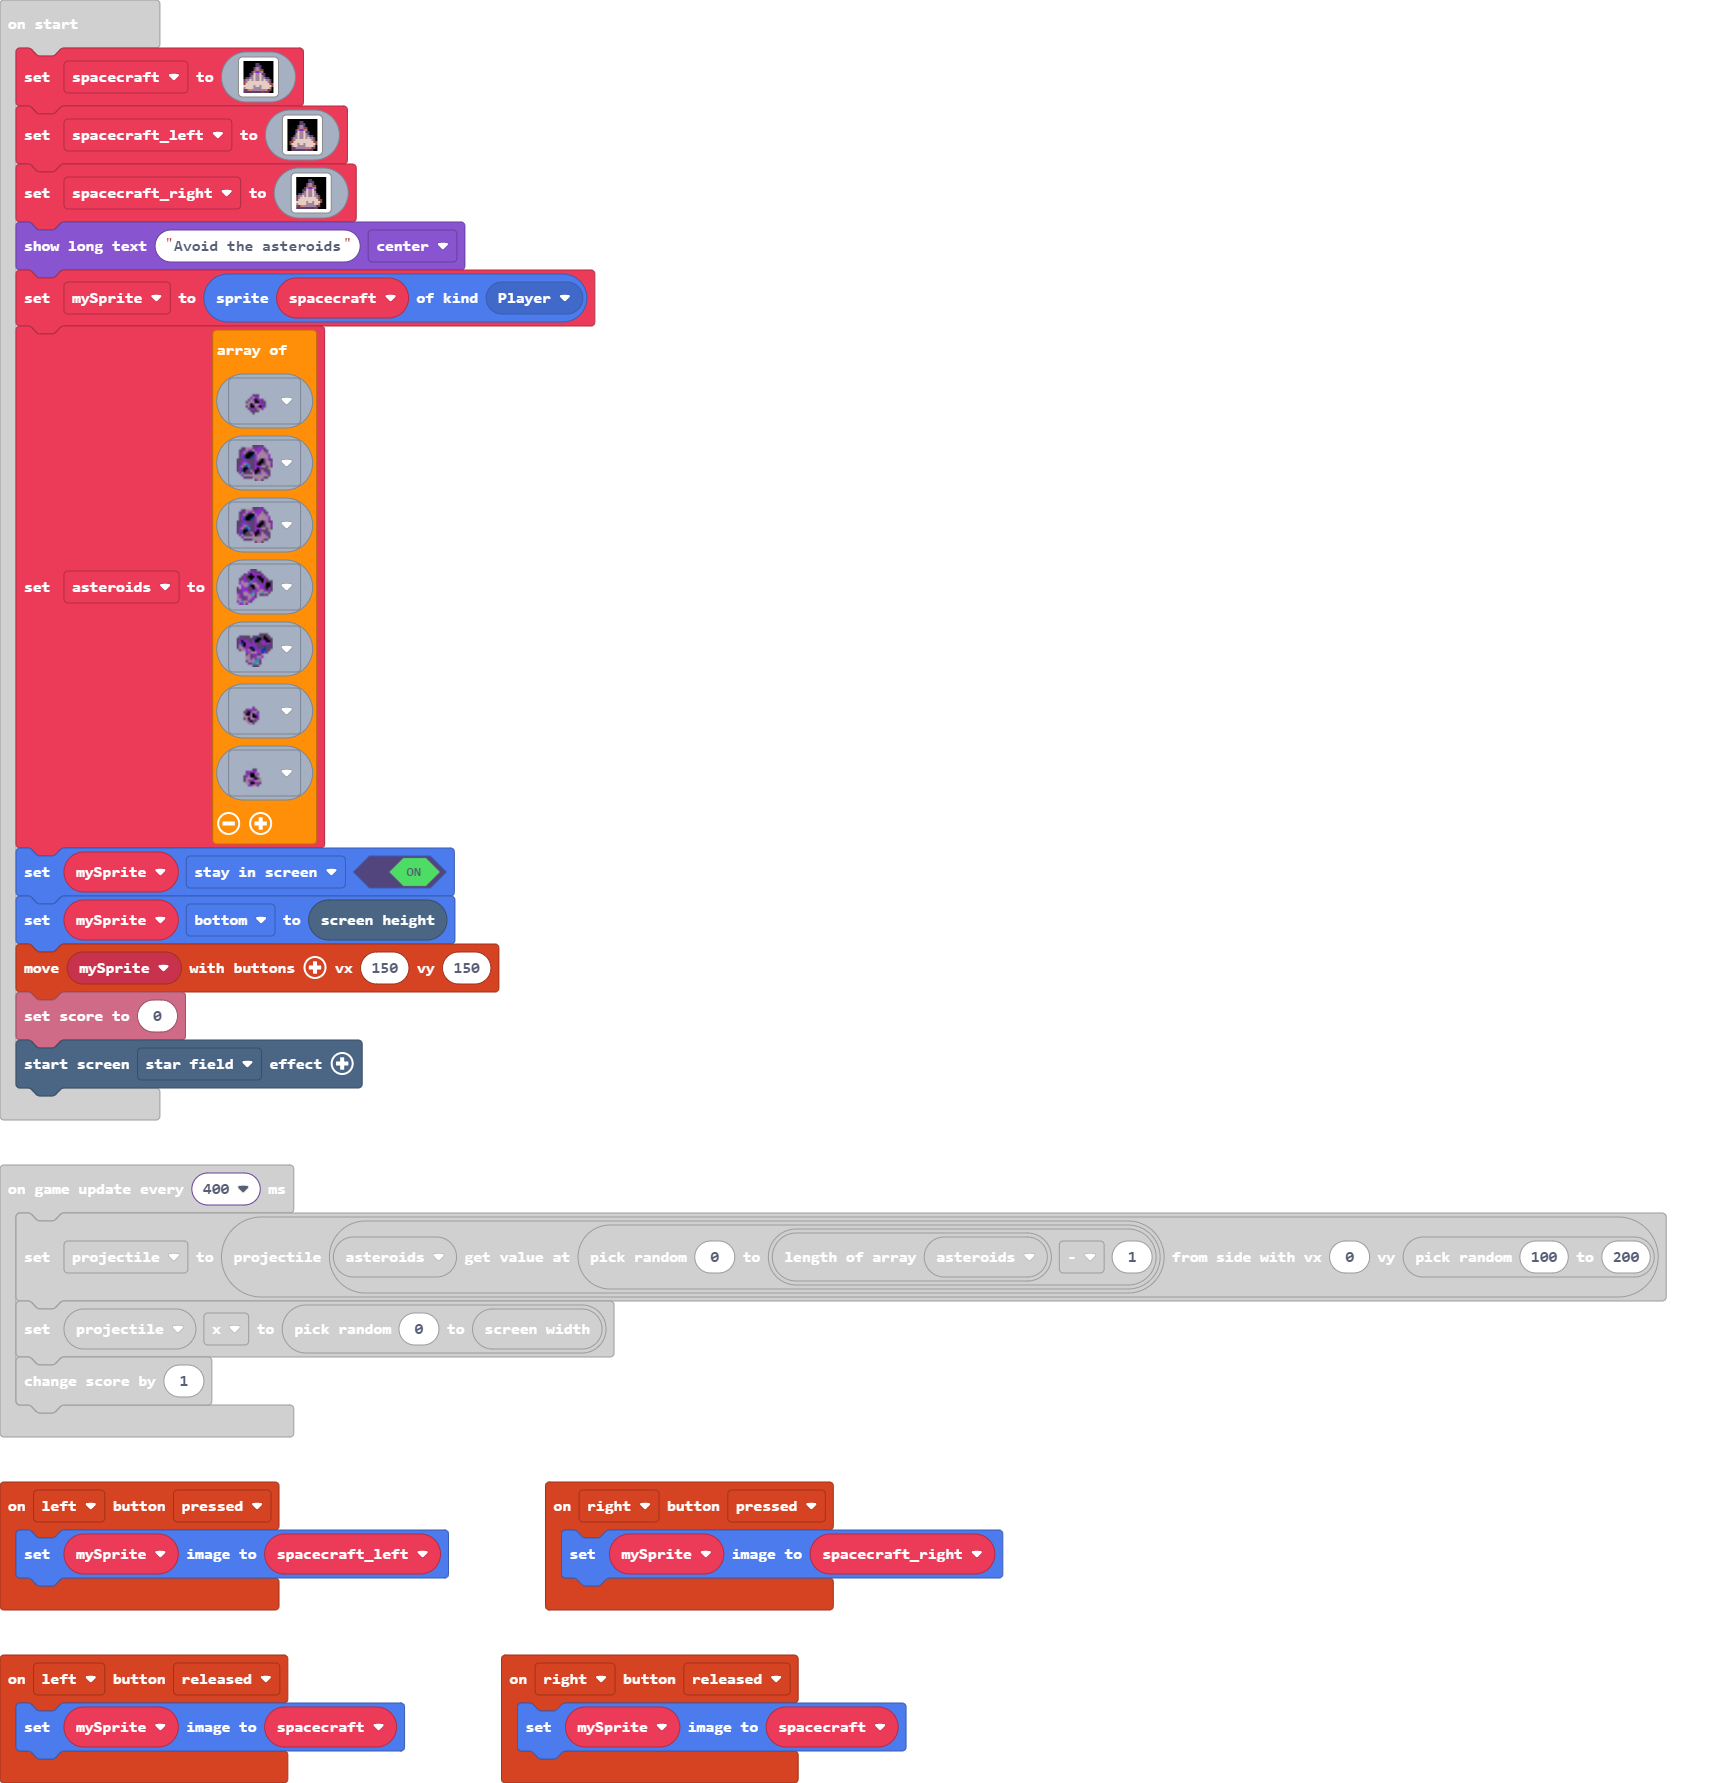
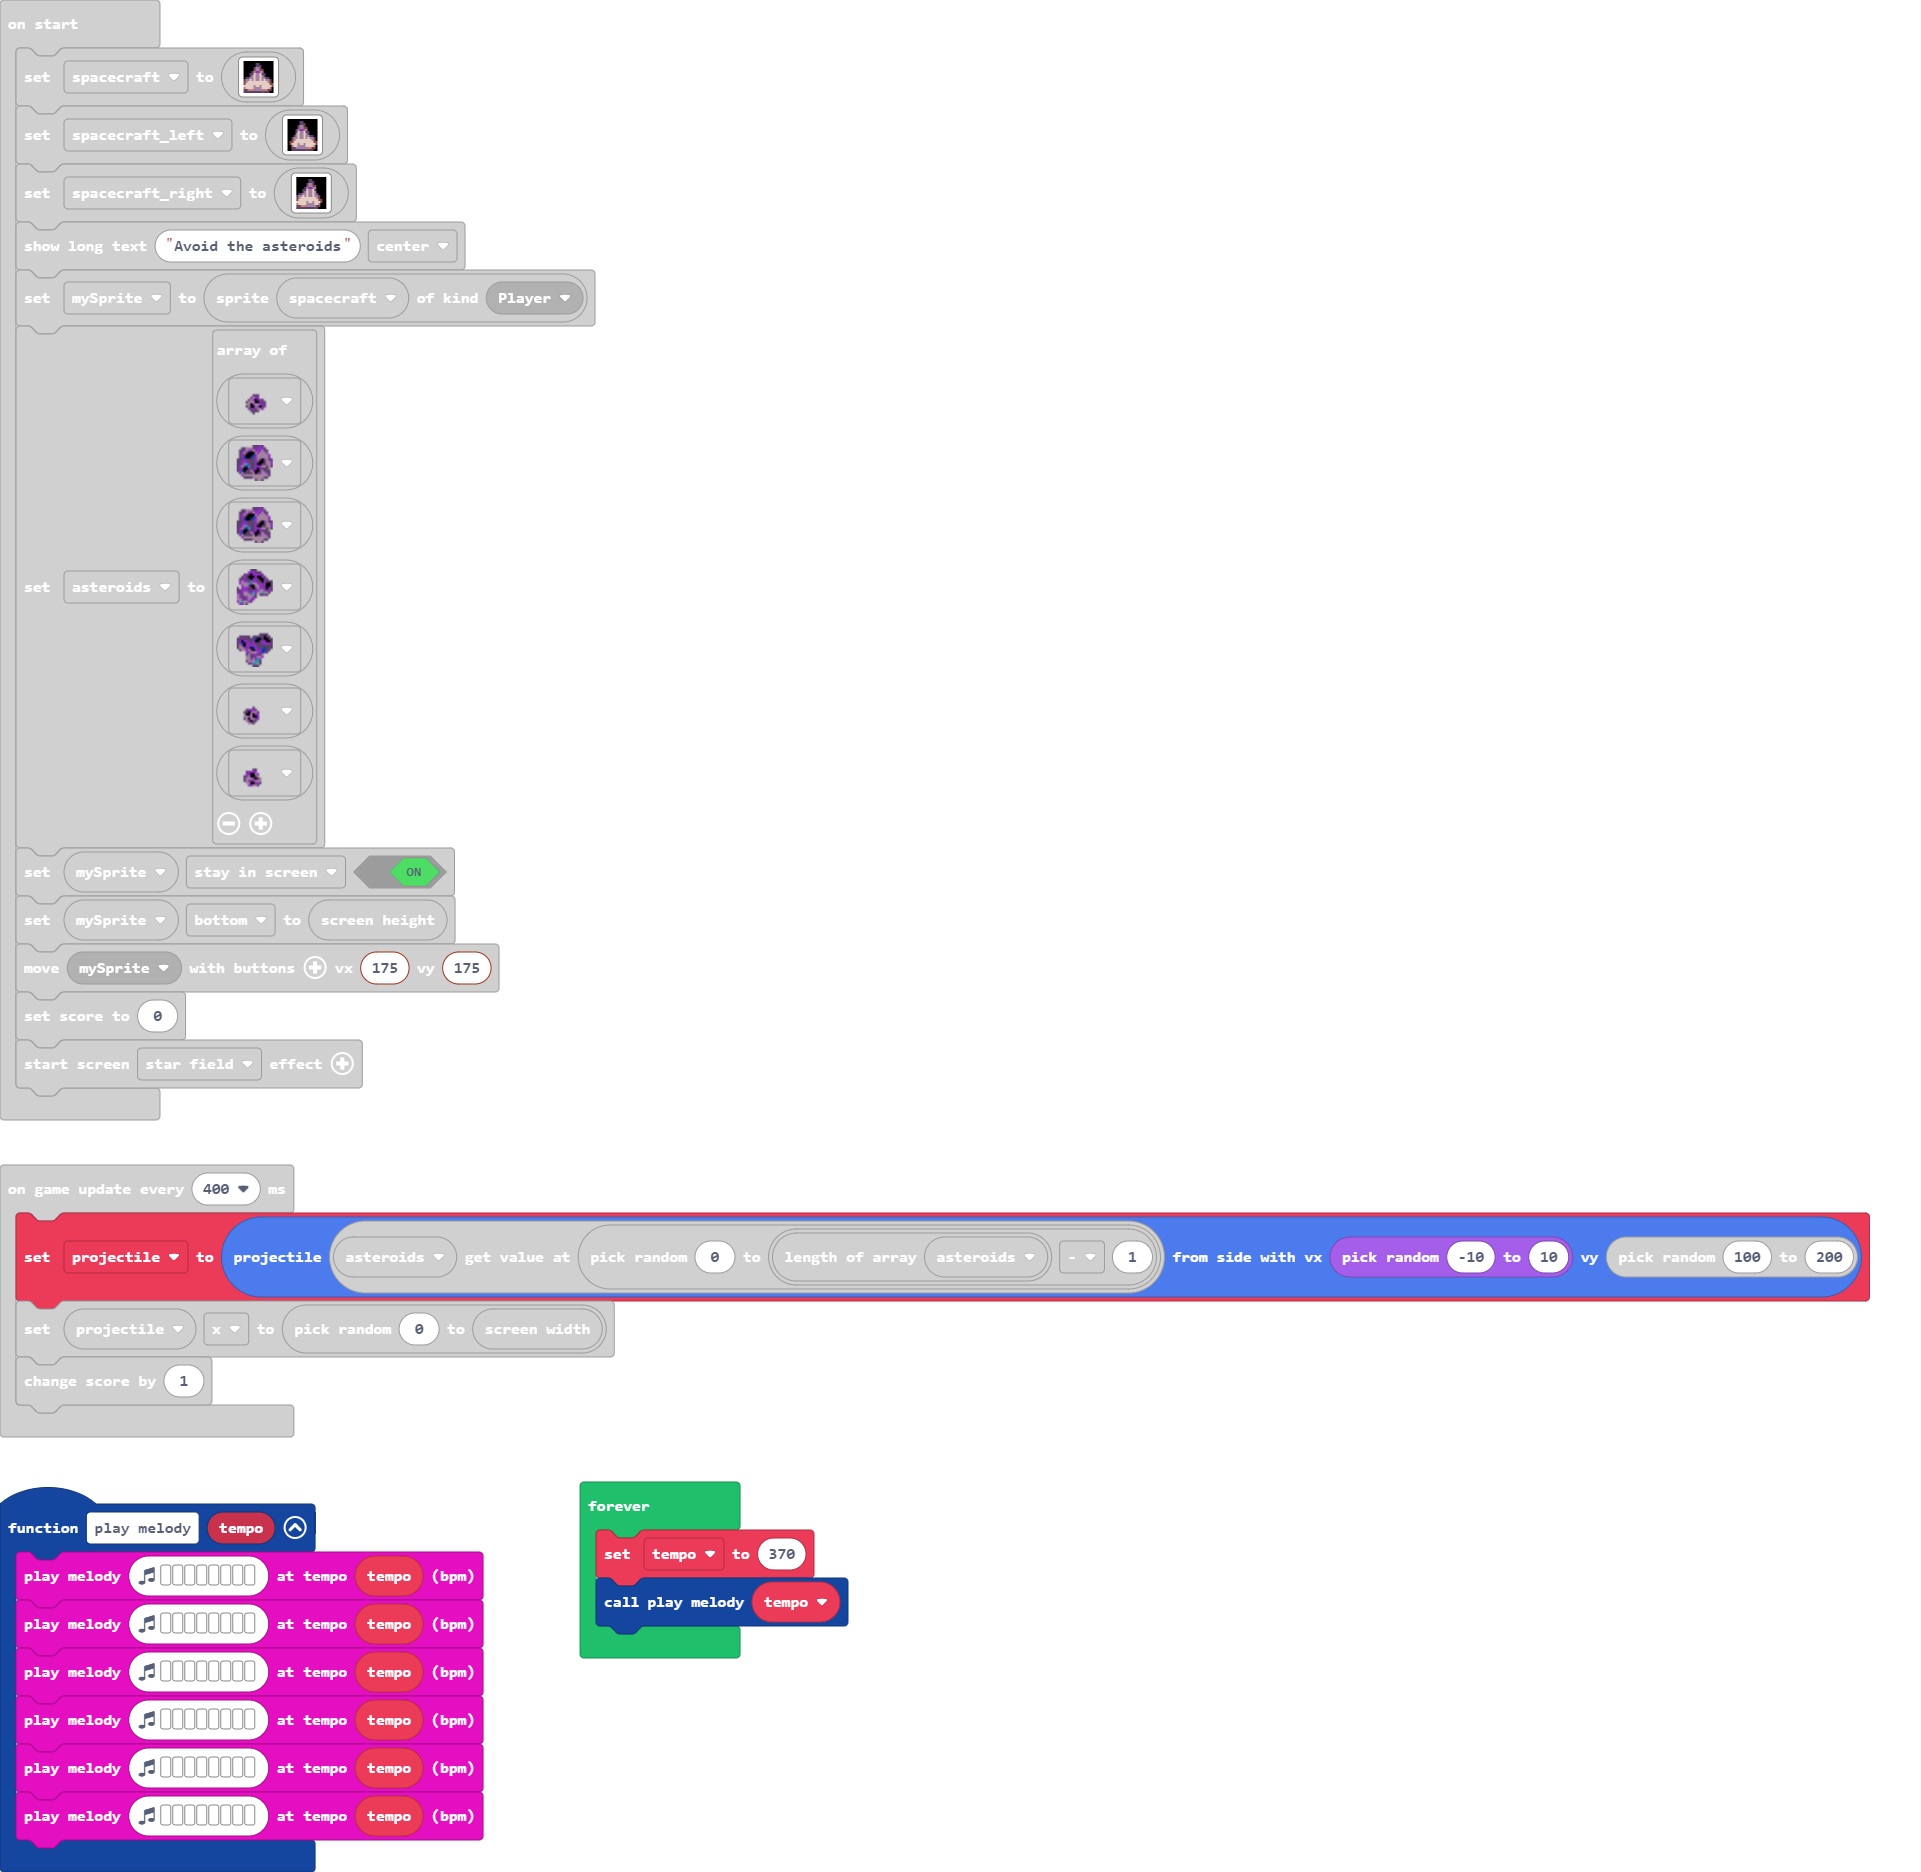
Melody

Changed region(s): [[0.0, 0.0, 0.9872, 1.0]]

diff --git a/main.ts b/main.ts
@@ -13,6 +13,15 @@ controller.right.onEvent(ControllerButtonEvent.Pressed, function () {
 sprites.onOverlap(SpriteKind.Player, SpriteKind.Projectile, function (sprite, otherSprite) {
     game.over(false, effects.dissolve)
 })
+function play_melody (tempo: number) {
+    music.playMelody("C - C C D C C - ", tempo)
+    music.playMelody("C F F - D C C - ", tempo)
+    music.playMelody("C - C C D C C - ", tempo)
+    music.playMelody("C F F - D C C - ", tempo)
+    music.playMelody("C - C C D C C - ", tempo)
+    music.playMelody("C F A A C - C - ", tempo)
+}
+let tempo = 0
 let projectile: Sprite = null
 let mySprite: Sprite = null
 let spacecraft_right: Image = null
@@ -85,11 +94,15 @@ sprites.space.spaceSmallAsteroid2
 ]
 mySprite.setFlag(SpriteFlag.StayInScreen, true)
 mySprite.bottom = scene.screenHeight()
-controller.moveSprite(mySprite, 150, 150)
+controller.moveSprite(mySprite, 175, 175)
 info.setScore(0)
 effects.starField.startScreenEffect()
 game.onUpdateInterval(400, function () {
-    projectile = sprites.createProjectileFromSide(asteroids[randint(0, asteroids.length - 1)], 0, randint(100, 200))
+    projectile = sprites.createProjectileFromSide(asteroids[randint(0, asteroids.length - 1)], randint(-10, 10), randint(100, 200))
     projectile.x = randint(0, scene.screenWidth())
     info.changeScoreBy(1)
+})
+forever(function () {
+    tempo = 370
+    play_melody(tempo)
 })
